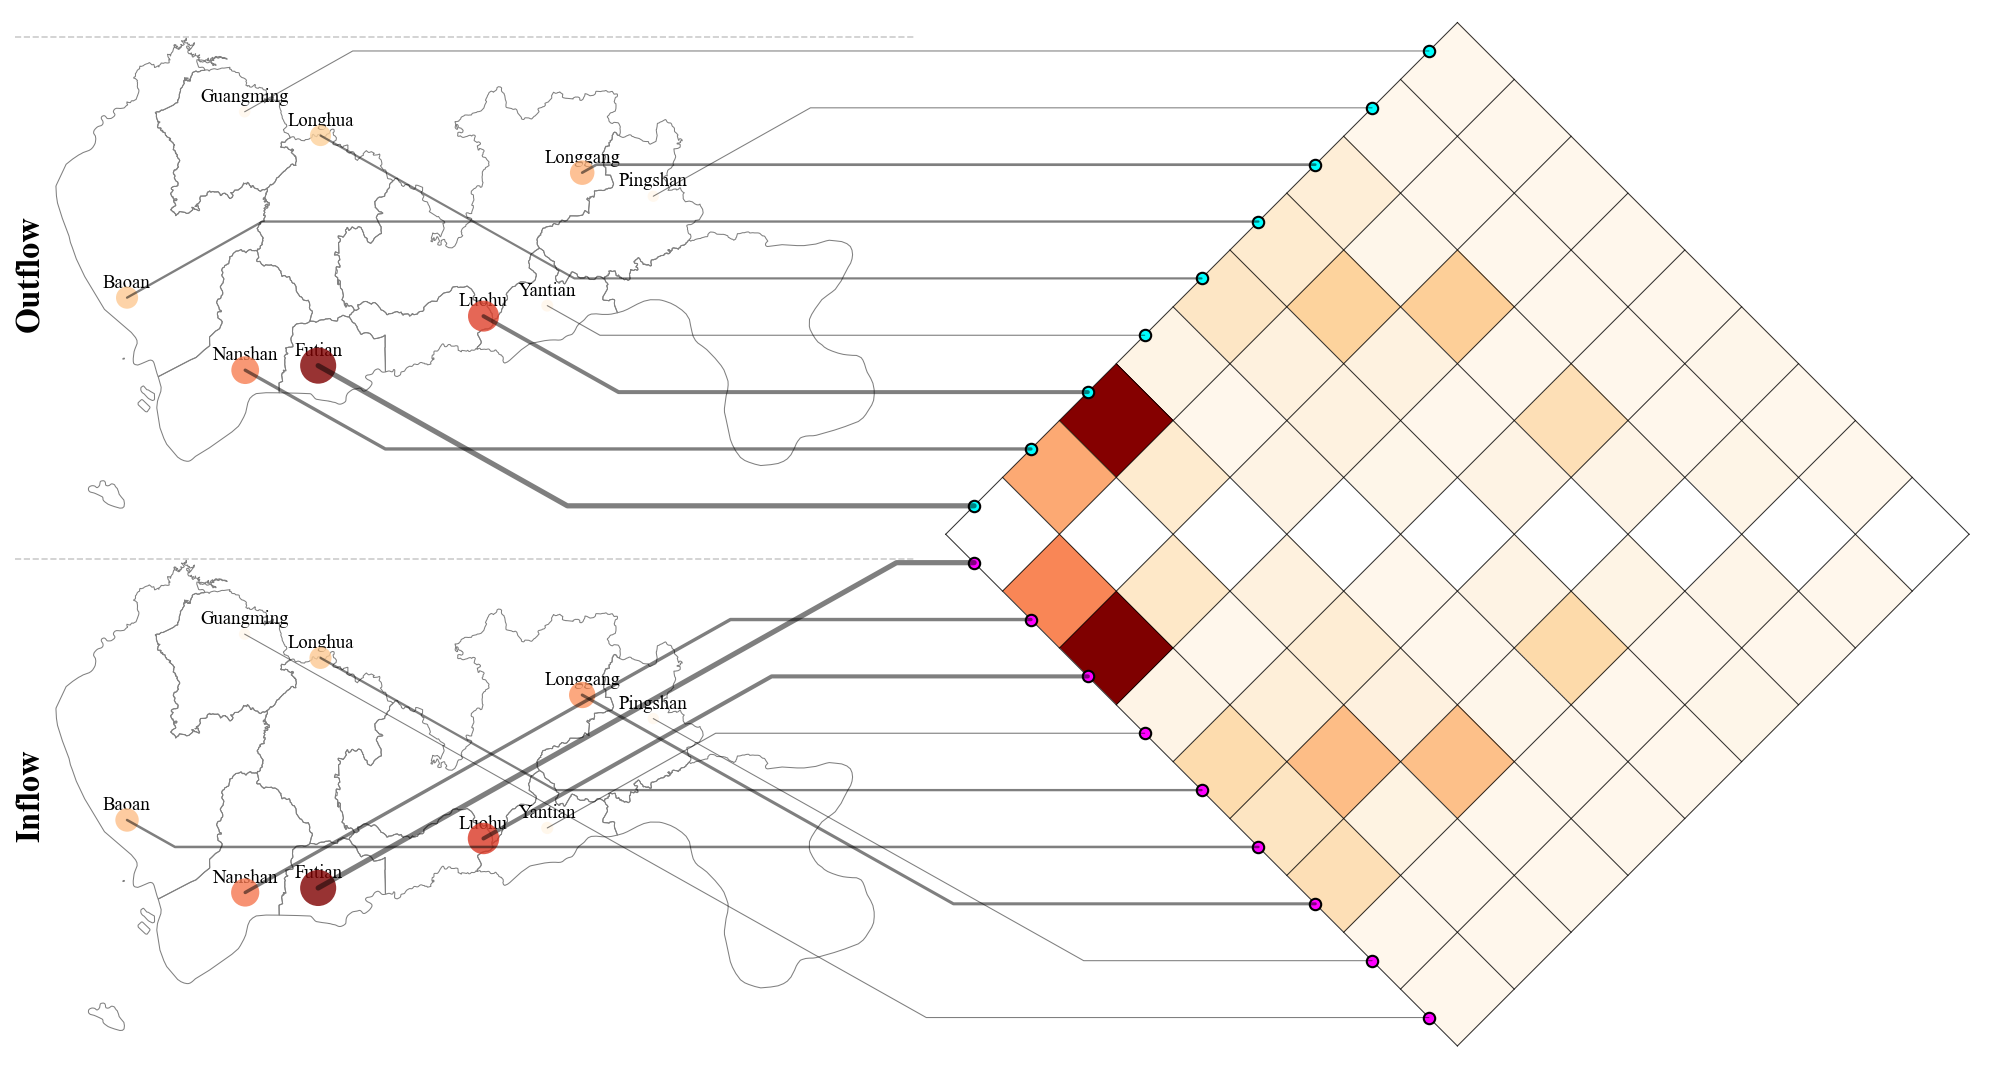
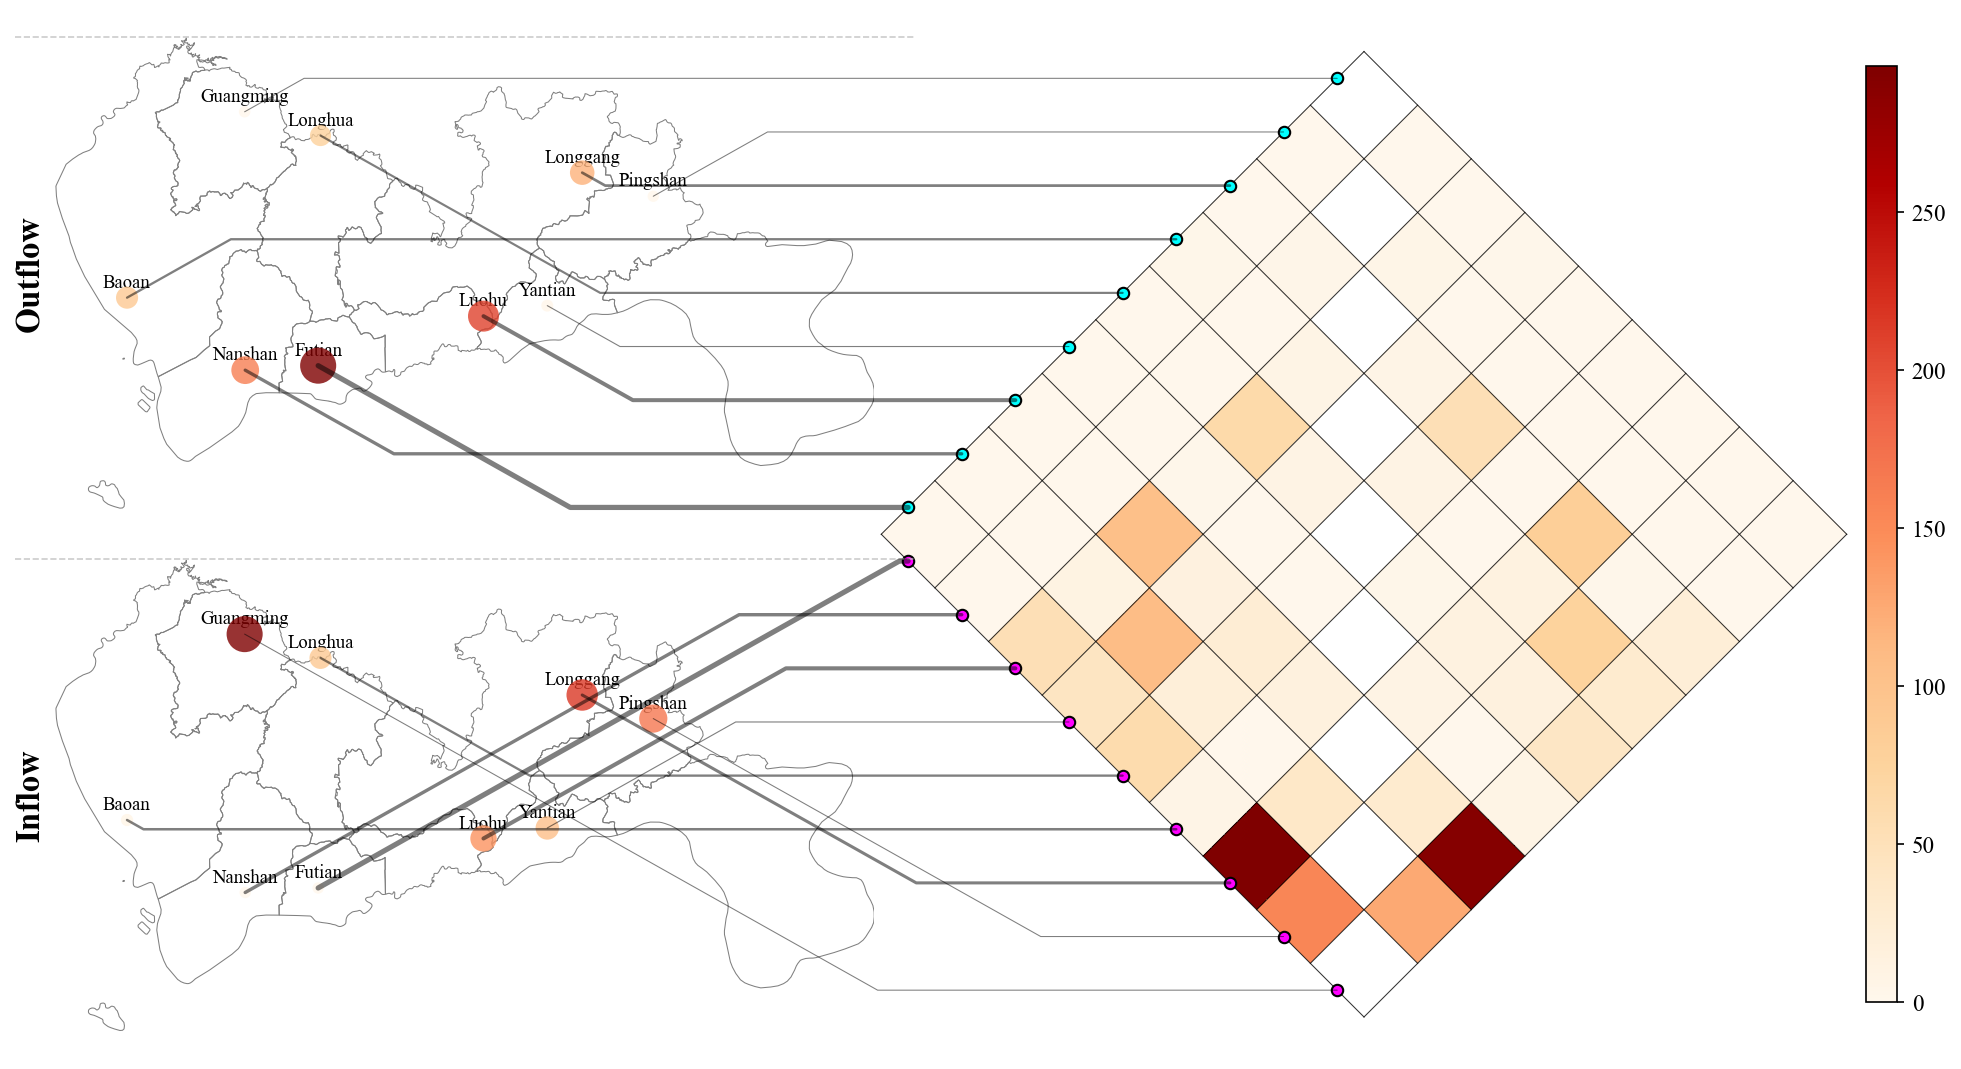
fix: reverse d_order (anti-diagonal -> vertical after rotation), fix colorbar assignment order

diff --git a/geoflowkit/visualization/maptrix.py b/geoflowkit/visualization/maptrix.py
@@ -260,10 +260,10 @@ class MapTrixVisualizer:
         # Build figure
         ax_map_o, ax_map_d, ax_matrix, im, transform = self._build_figure(fig)
         plt.subplots_adjust(hspace=0.01, wspace=-0.15, left=0.0001)
-        self._draw_colorbar(fig, ax_matrix)
-        fig.canvas.draw()
         self._im = im
         self._transform = transform
+        self._draw_colorbar(fig, ax_matrix)
+        fig.canvas.draw()
 
         # GP layout optimisation
         if len(self.o_order_) > 1 or len(self.d_order_) > 1:
@@ -356,10 +356,10 @@ class MapTrixVisualizer:
         else:
             self._gp_dest_result = None
 
-        # Sync destination ordering with origin so self-flow cells
-        # stay on the matrix diagonal (vertical white line after rotation).
+        # Reverse destination ordering so self-flow cells land on the
+        # anti-diagonal, which becomes vertical after 45° CCW rotation.
         if self._gp_origin_result is not None and not self.include_self_flows:
-            self.d_order_ = list(self.o_order_)
+            self.d_order_ = list(reversed(self.o_order_))
 
         # Apply ordering and update matrix *without* rebuilding figure.
         # This keeps all figure-coordinate geoms from GP valid.
